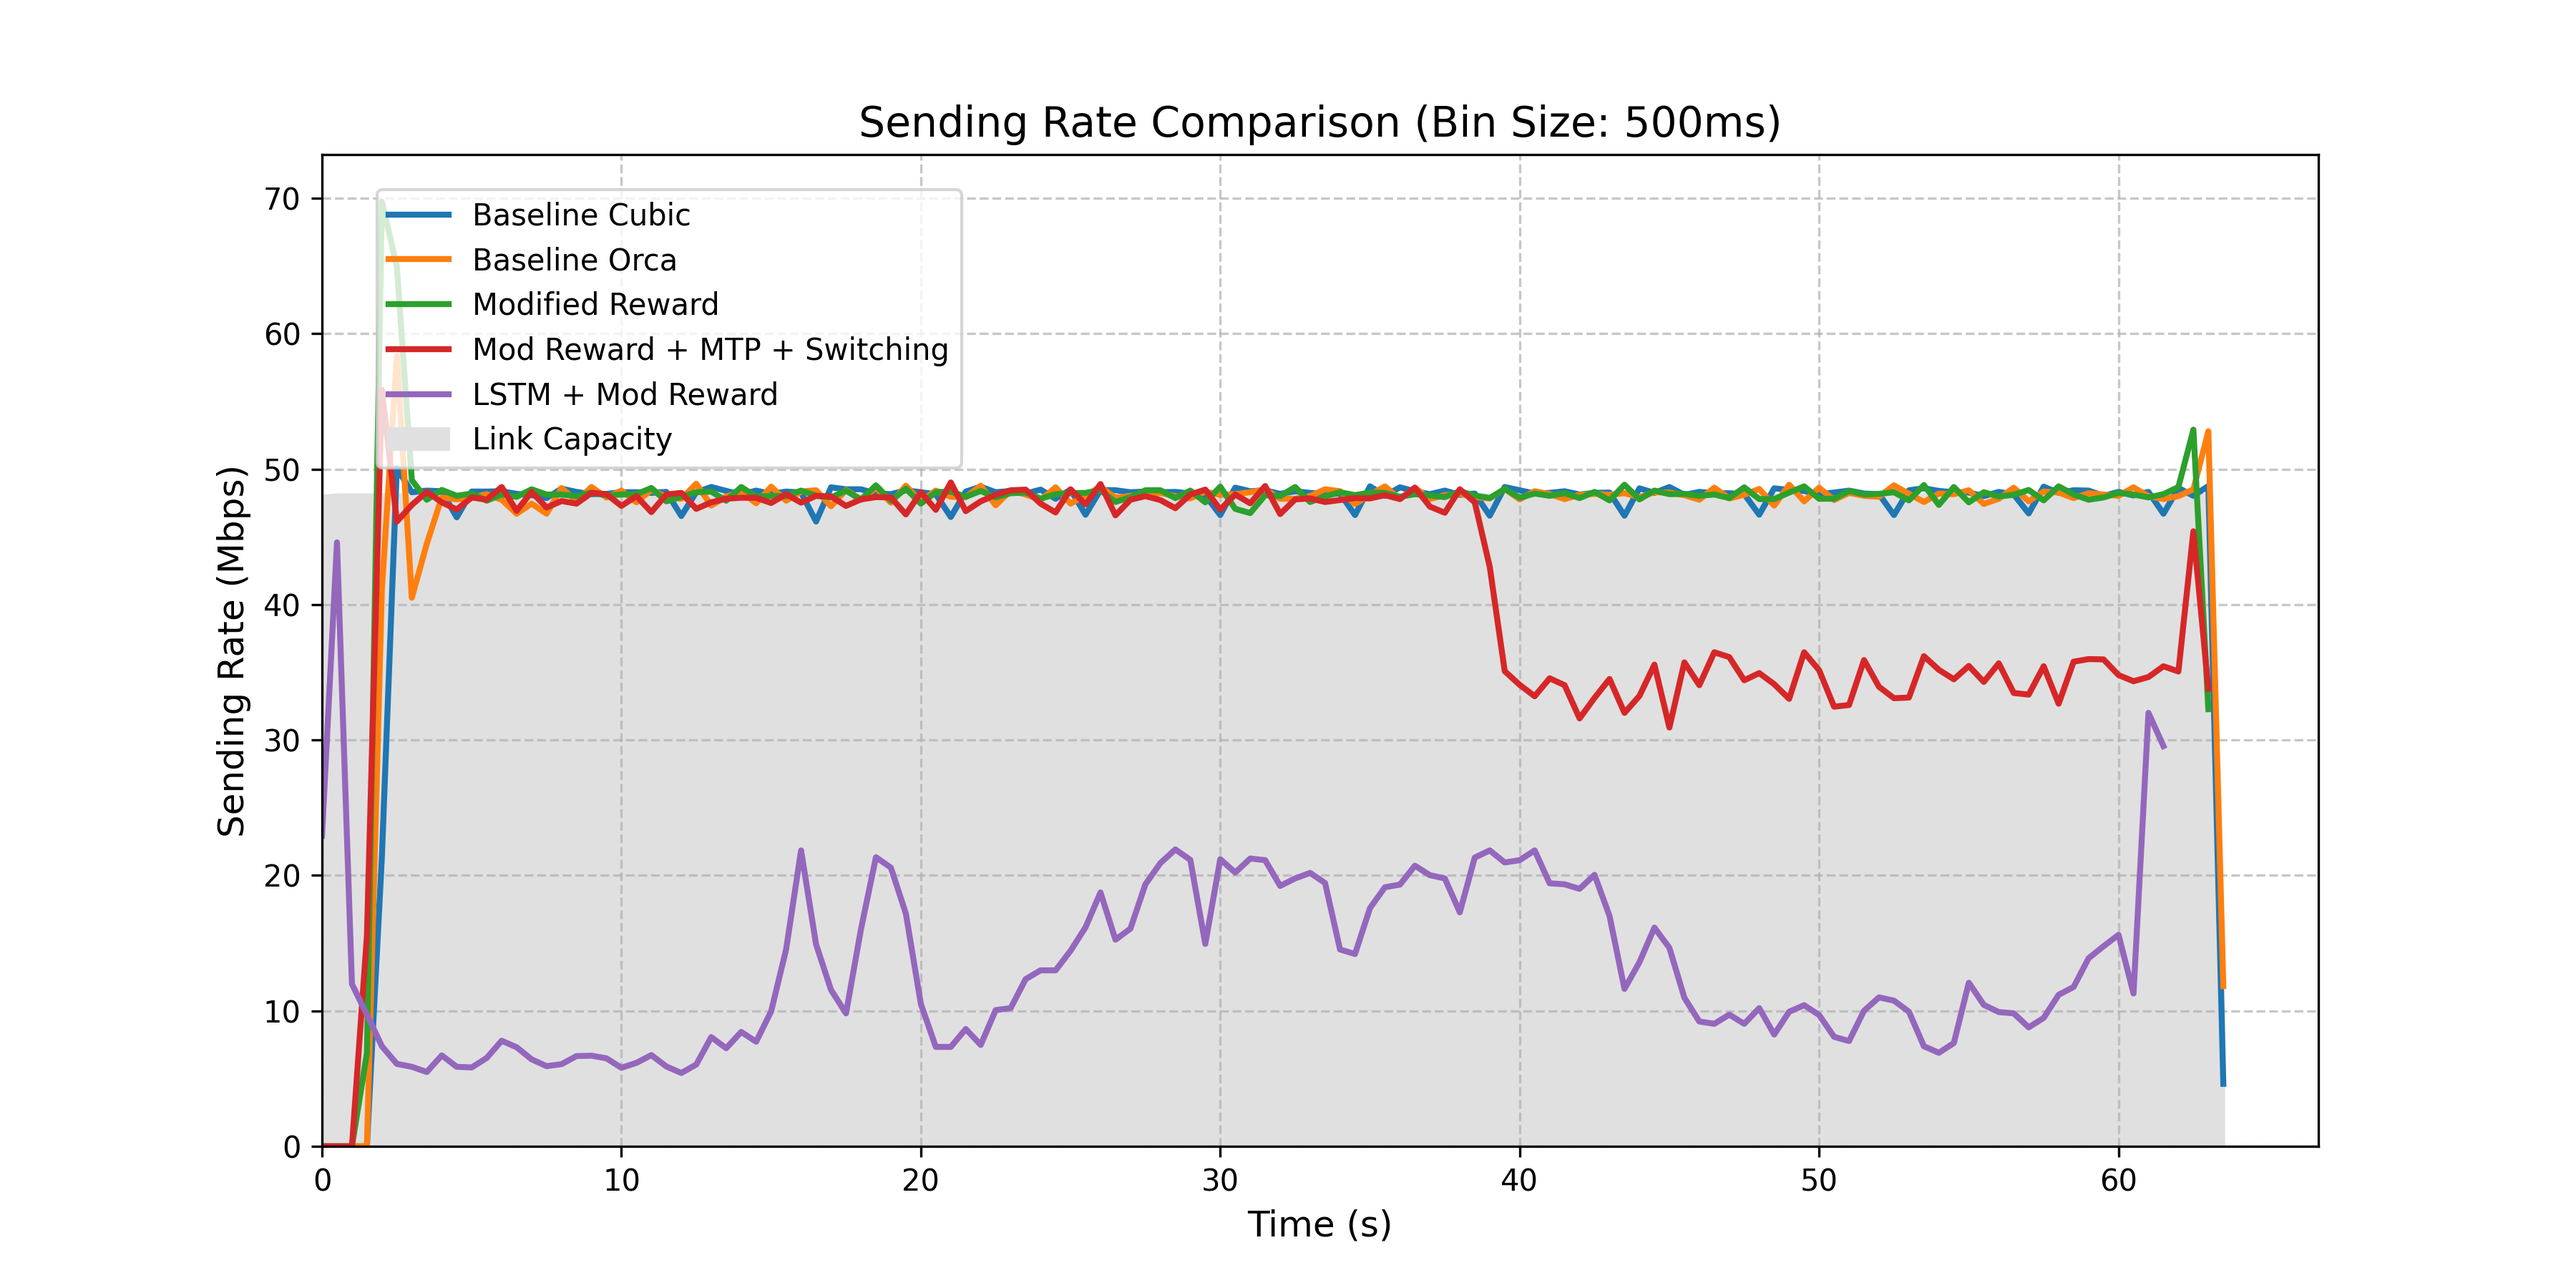
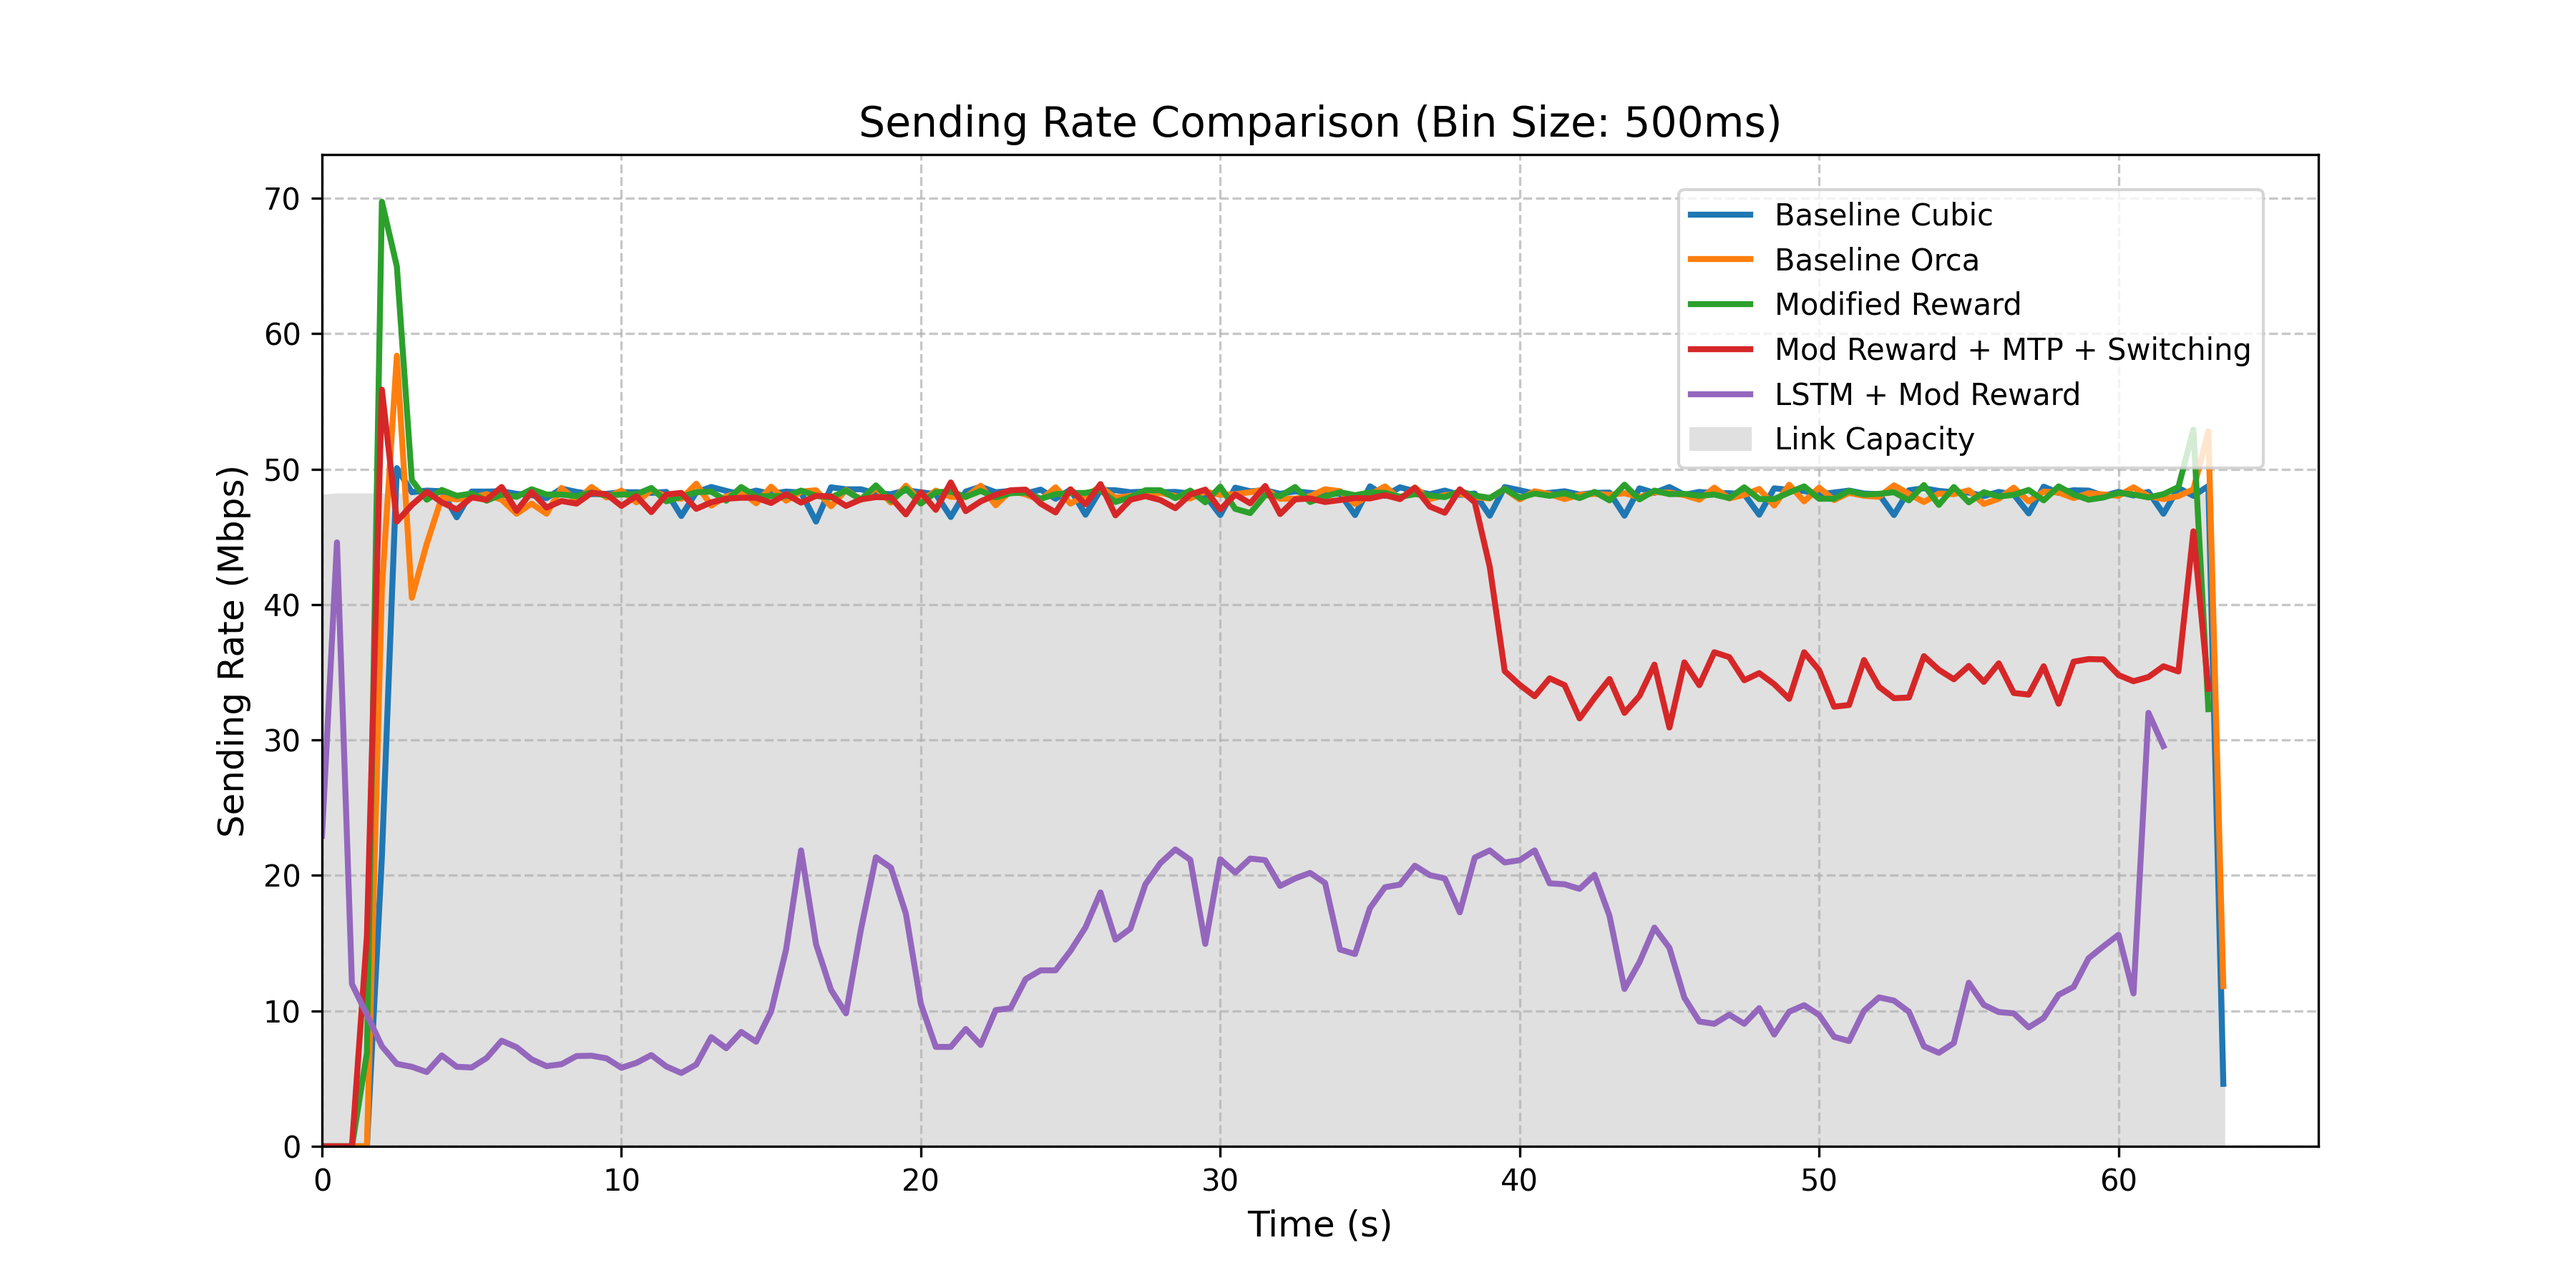
legend moved

Changed region(s): [[0.1244, 0.1244, 0.3733, 0.3733], [0.6533, 0.1244, 0.8711, 0.3733], [0.84, 0.3422, 0.8711, 0.3733]]

diff --git a/rl-module/plot_sending_rate.py b/rl-module/plot_sending_rate.py
@@ -122,7 +122,8 @@ def main():
     plt.ylabel("Sending Rate (Mbps)", fontsize=12)
     plt.title(f"Sending Rate Comparison (Bin Size: {bin_size}ms)", fontsize=14)
     plt.grid(True, linestyle='--', alpha=0.7)
-    plt.legend(loc='upper left', bbox_to_anchor=(0.02,0.98), fontsize=10)
+    # upper left, 0.02/0.98
+    plt.legend(loc='upper right', bbox_to_anchor=(0.98,0.98), fontsize=10)
     plt.xlim(left=0)
     plt.ylim(bottom=0)
     
